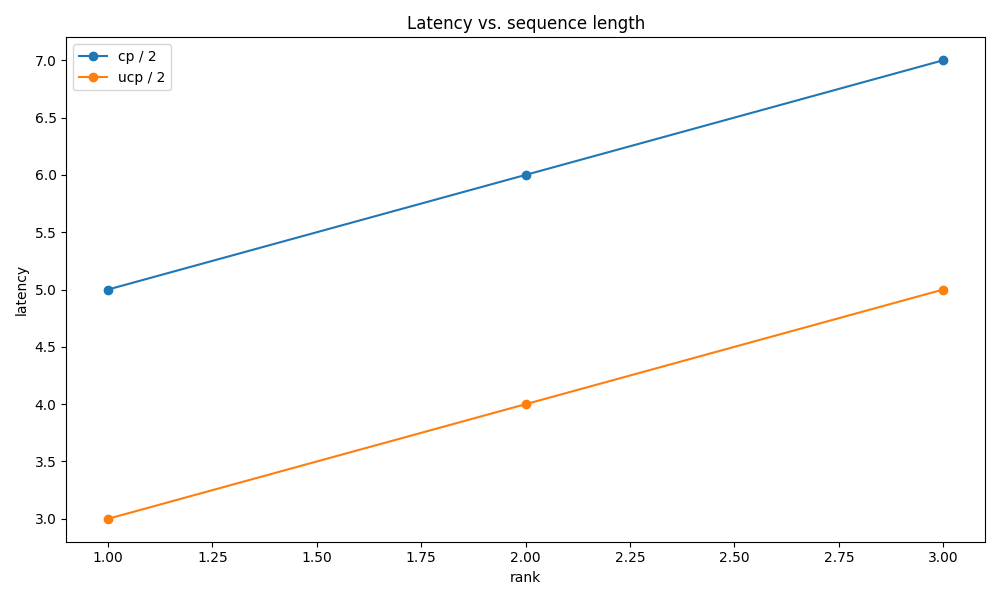
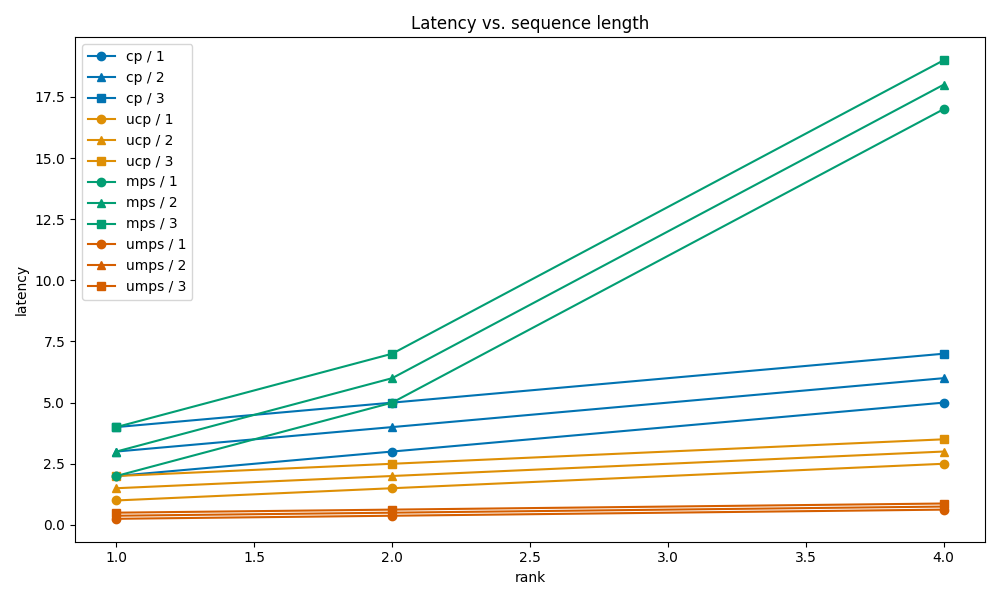
Update plot_groups func

diff --git a/utils/utils.py b/utils/utils.py
@@ -1,9 +1,14 @@
-from typing import Optional, Any, Dict, List, Tuple, Union
+from __future__ import annotations
+
+from typing import Optional, Any, Dict, List, Sequence, Tuple, Union
 from collections.abc import Mapping
 
 import torch
 import matplotlib.pyplot as plt
 from pathlib import Path
+
+from collections import defaultdict
+from itertools import cycle
 
 
 class AverageMeter:
@@ -140,12 +145,10 @@ def group_arr(results: list, *group_fns):
 
 def _walk_groups(
     node: Union[Mapping, List[Dict[str, Any]]],
-    path: Tuple[str, ...] = (),  # just a tuple now
+    path: Tuple[str, ...] = (),
 ) -> List[Tuple[Tuple[str, ...], List[Dict[str, Any]]]]:
-    """Return [(group_path, leaf_items), …] for every leaf in a nested dict."""
-    if isinstance(node, list):  # leaf reached
+    if isinstance(node, list):
         return [(path, node)]
-
     leaves: List[Tuple[Tuple[str, ...], List[Dict[str, Any]]]] = []
     for key, child in node.items():
         leaves.extend(_walk_groups(child, path + (str(key),)))
@@ -156,60 +159,92 @@ def plot_groups(
     grouped: Dict[str, Any],
     x_key: str,
     y_key: str,
-    path: str,
-    title: Optional[str] = None,
-    x_label: Optional[str] = None,
-    y_label: Optional[str] = None,
-    figsize: tuple[int, int] = (10, 6),
+    path: Union[str, Path],  # ← was str | Path
+    *,
+    style_dims: Sequence[str] = ("marker", "color"),
+    style_cycles: Union[Dict[str, Sequence[Any]], None] = None,
+    custom_maps: Union[Dict[str, Dict[str, Any]], None] = None,
+    title: Union[str, None] = None,
+    x_label: Union[str, None] = None,
+    y_label: Union[str, None] = None,
+    figsize: Tuple[int, int] = (10, 6),
     sort_by_x: bool = True,
 ) -> None:
     """
-    Plot data held in a nested group structure produced by `group_arr`.
+    Generic plotter where *N* top-level group dimensions map to *N*
+    matplotlib style properties (marker, colour, …).
 
-    Args:
-        grouped: The nested dictionary returned by `group_arr`.
-        x_key: Key in the result dicts to use as the x-axis.
-        y_key: Key in the result dicts to use as the y-axis.
-        path: File path where the figure will be saved (extension decides format).
-        title: Plot title (optional).
-        x_label: X-axis label (optional, defaults to `x_key`).
-        y_label: Y-axis label (optional, defaults to `y_key`).
-        figsize: Figure size in inches.
-        sort_by_x: If True, data for each series are sorted by x before plotting.
-
-    Returns:
-        None (figure is saved to *path*).
+    Parameters
+    ----------
+    style_dims
+        Ordered sequence of matplotlib line properties that will be
+        controlled by the first, second, … group levels.
+        Example: ("marker", "color", "linestyle").
+    style_cycles
+        Optional dict overriding the default cycle for a given property:
+        {"marker": ["o", "s"], "linestyle": ["-", "--"]}.
+    custom_maps
+        Pre-assign specific style values to some keys:
+        {"color": {"dev": "tab:red", "prod": "tab:green"}}.
     """
-    # Gather every leaf (one series per leaf)
-    series = _walk_groups(grouped)
+    leaves = _walk_groups(grouped)
+    if not leaves:
+        raise ValueError("Nothing to plot – `grouped` is empty")
 
-    if not series:
-        raise ValueError("Nothing to plot – `grouped` appears to be empty")
+    style_cycles = style_cycles or {}
+    custom_maps = custom_maps or {}
+
+    # Build a default cycle for any property not supplied
+    default_prop_cycles: Dict[str, cycle] = {}
+    for prop in style_dims:
+        if prop in style_cycles:
+            default_prop_cycles[prop] = cycle(style_cycles[prop])
+        else:
+            # Good defaults: let marker cycle through a few symbols,
+            # colour cycle uses rcParams, others fallback to sensible lists
+            if prop == "marker":
+                default_prop_cycles[prop] = cycle("o^sDPv<>")
+            elif prop == "linestyle":
+                default_prop_cycles[prop] = cycle(("-", "--", ":", "-."))
+            else:
+                default_prop_cycles[prop] = cycle(
+                    plt.rcParams["axes.prop_cycle"].by_key()["color"]
+                )
+
+    # Remember which key already received which value
+    assigned: Dict[str, Dict[str, Any]] = defaultdict(dict)
+    assigned.update(custom_maps)  # pre-seed with user maps
+
+    def get_style(prop: str, key: str) -> Any:
+        if key not in assigned[prop]:
+            assigned[prop][key] = next(default_prop_cycles[prop])
+        return assigned[prop][key]
 
     plt.figure(figsize=figsize)
 
-    for group_path, items in series:
-        # Extract x and y values
-        xs = [item[x_key] for item in items]
-        ys = [item[y_key] for item in items]
-
+    for path_tuple, items in leaves:
+        xs = [d[x_key] for d in items]
+        ys = [d[y_key] for d in items]
         if sort_by_x:
             xs, ys = zip(*sorted(zip(xs, ys), key=lambda t: t[0]))
 
-        # Build a readable legend label like "dataset / split / run-1"
-        label = " / ".join(map(str, group_path)) if group_path else "all"
+        # Build kwargs incrementally
+        style_kwargs: Dict[str, Any] = {}
+        for lvl, key in enumerate(path_tuple[: len(style_dims)]):
+            prop = style_dims[lvl]
+            style_kwargs[prop] = get_style(prop, key)
 
-        plt.plot(xs, ys, marker="o", label=label)
+        # Anything beyond the styled levels just contributes to the label
+        label = " / ".join(path_tuple)
+
+        plt.plot(xs, ys, label=label, **style_kwargs)
 
     plt.xlabel(x_label or x_key)
     plt.ylabel(y_label or y_key)
     if title:
         plt.title(title)
-
-    # Only show legend if there is more than one line
-    if len(series) > 1:
+    if len(leaves) > 1:
         plt.legend()
-
     plt.tight_layout()
     Path(path).parent.mkdir(parents=True, exist_ok=True)
     plt.savefig(path)

diff --git a/scripts/plots/plot_mhead_runtime_benchmark.py b/scripts/plots/plot_mhead_runtime_benchmark.py
@@ -10,6 +10,7 @@ Example:
 
 import gc
 import argparse
+import itertools
 
 
 import torch
@@ -57,52 +58,50 @@ def main(args):
                 ),
                 **common_kwargs,
             }
-            # for (r, h) in itertools.product([1, 2], [1, 2])
-            for (r, h) in zip([1], [1])
+            for (r, h) in itertools.product([1, 2, 4], [1, 2, 4])
         ]
-        # + [
-        #     {
-        #         "name": f"gpt2::mhucp::hd768::r{r}::h{h}",
-        #         "params": r,
-        #         "model_fn": create_model_gpt_fn(
-        #             r,
-        #             h,
-        #             model_head="ucp",
-        #             use_memory_efficient_loss=args.use_memory_efficient_loss,
-        #         ),
-        #         **common_kwargs,
-        #     }
-        #     # for (r, h) in itertools.product([1, 2], [1, 2])
-        #     for (r, h) in zip([1, 2], [1, 2])
-        # ]
-        # + [
-        #     {
-        #         "name": f"gpt2::mhmps::hd768::r{r}::h{h}",
-        #         "params": h * r**2,
-        #         "model_fn": create_model_gpt_fn(
-        #             r,
-        #             h,
-        #             model_head="mps",
-        #             use_memory_efficient_loss=args.use_memory_efficient_loss,
-        #         ),
-        #         **common_kwargs,
-        #     }
-        #     for (r, h) in itertools.product([1, 2, 4], [1, 2, 4])
-        # ]
-        # + [
-        #     {
-        #         "name": f"gpt2::mhumps::hd768::r{r}::h{h}",
-        #         "params": r**2,
-        #         "model_fn": create_model_gpt_fn(
-        #             r,
-        #             h,
-        #             model_head="umps",
-        #             use_memory_efficient_loss=args.use_memory_efficient_loss,
-        #         ),
-        #         **common_kwargs,
-        #     }
-        #     for (r, h) in itertools.product([1, 2, 4], [1, 2, 4])
-        # ]
+        + [
+            {
+                "name": f"gpt2::mhucp::hd768::r{r}::h{h}",
+                "params": r,
+                "model_fn": create_model_gpt_fn(
+                    r,
+                    h,
+                    model_head="ucp",
+                    use_memory_efficient_loss=args.use_memory_efficient_loss,
+                ),
+                **common_kwargs,
+            }
+            for (r, h) in itertools.product([1, 2, 4], [1, 2, 4])
+        ]
+        + [
+            {
+                "name": f"gpt2::mhmps::hd768::r{r}::h{h}",
+                "params": h * r**2,
+                "model_fn": create_model_gpt_fn(
+                    r,
+                    h,
+                    model_head="mps",
+                    use_memory_efficient_loss=args.use_memory_efficient_loss,
+                ),
+                **common_kwargs,
+            }
+            for (r, h) in itertools.product([1, 2, 4], [1, 2, 4])
+        ]
+        + [
+            {
+                "name": f"gpt2::mhumps::hd768::r{r}::h{h}",
+                "params": r**2,
+                "model_fn": create_model_gpt_fn(
+                    r,
+                    h,
+                    model_head="umps",
+                    use_memory_efficient_loss=args.use_memory_efficient_loss,
+                ),
+                **common_kwargs,
+            }
+            for (r, h) in itertools.product([1, 2, 4], [1, 2, 4])
+        ]
     )
 
     print(f"Starting benchmarks ({args.device})...")
@@ -120,7 +119,7 @@ def main(args):
             )
 
             # Append to results
-            results.append({**exp, **res})
+            results.append({**exp, "latency": res["Latency [s]"]["mean"]})
 
             # Clean up
             del model
@@ -136,9 +135,26 @@ def main(args):
     plot_groups(
         results_grouped,
         x_key="params",
-        y_key="Latency [s]",
+        y_key="latency",
         x_label="Params",
         y_label="Latency [s]",
+        # First level controls color, second controls marker
+        style_dims=[
+            "color",
+            "marker",
+        ],
+        style_cycles={
+            "color": [
+                "#0173B2",
+                "#DE8F05",
+                "#029E73",
+                "#D55E00",
+                "#CC78BC",
+                "#CA9161",
+                "#FBAFE4",
+                "#949494",
+            ]
+        },
         path=f"results/plots/model_head_latency_benchmark_{args.mode}_ume{args.use_memory_efficient_loss}.png",
     )
 

diff --git a/test_plot.py b/test_plot.py
@@ -1,15 +1,27 @@
+import itertools
 from utils.utils import group_arr, plot_groups
 
 
 def main():
 
-    exps = [
-        {"name": "cp", "rank": r, "horizon": h, "latency": r + h**2}
-        for (r, h) in zip([1, 2, 3], [2, 2, 2])
-    ] + [
-        {"name": "ucp", "rank": r, "horizon": h, "latency": r + h}
-        for (r, h) in zip([1, 2, 3], [2, 2, 2])
-    ]
+    exps = (
+        [
+            {"name": "cp", "rank": r, "horizon": h, "latency": r + h}
+            for (r, h) in itertools.product([1, 2, 4], [1, 2, 3])
+        ]
+        + [
+            {"name": "ucp", "rank": r, "horizon": h, "latency": 1 / 2 * (r + h)}
+            for (r, h) in itertools.product([1, 2, 4], [1, 2, 3])
+        ]
+        + [
+            {"name": "mps", "rank": r, "horizon": h, "latency": r**2 + h}
+            for (r, h) in itertools.product([1, 2, 4], [1, 2, 3])
+        ]
+        + [
+            {"name": "umps", "rank": r, "horizon": h, "latency": 1 / 8 * (r + h)}
+            for (r, h) in itertools.product([1, 2, 4], [1, 2, 3])
+        ]
+    )
 
     # === Group by model first, then by horizon ===
     grouped = group_arr(
@@ -25,7 +37,24 @@ def main():
         y_key="latency",
         path="demo_latency_plot.png",
         title="Latency vs. sequence length",
+        style_dims=[
+            "color",
+            "marker",
+        ],  # First level controls color, second controls marker
+        style_cycles={
+            "color": [
+                "#0173B2",
+                "#DE8F05",
+                "#029E73",
+                "#D55E00",
+                "#CC78BC",
+                "#CA9161",
+                "#FBAFE4",
+                "#949494",
+            ]
+        },
     )
+
     print("✔ demo_latency_plot.png written")
 
 
